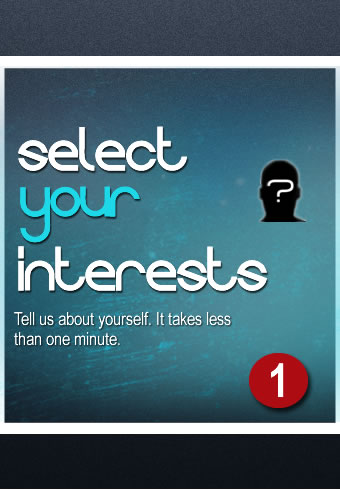
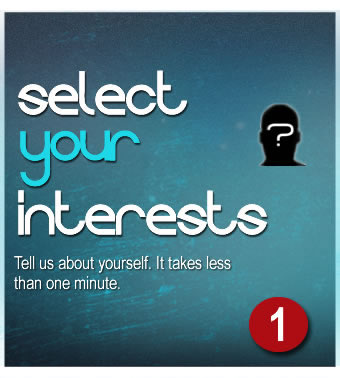
put slider back in

diff --git a/Solutions/CliqFlip.Web.Mvc/Content/styles/skins/default-dark.css b/Solutions/CliqFlip.Web.Mvc/Content/styles/skins/default-dark.css
@@ -809,7 +809,7 @@ ol li, .list li { color:#888; line-height:1.5em; }
 /*========================*/
 /*===  8.10. Slider    ===*/
 /*========================*/
-.bg_slider 	{margin:0; padding:0; padding-top:66px; width:100%; border-bottom:5px solid #FFA200;  -webkit-box-shadow: 0px 0px 20px #000; -moz-box-shadow: 0px 0px 20px #000; box-shadow: 0px 0px 20px #000; }	
+.bg_slider 	{margin-top:25px; padding:0; padding-top:66px; width:100%; border-bottom:5px solid #FFA200;  -webkit-box-shadow: 0px 0px 20px #000; -moz-box-shadow: 0px 0px 20px #000; box-shadow: 0px 0px 20px #000; }	
 
 /*===============================*/
 /*===  8.10.1 VIDEO HEADER ===*/
@@ -921,7 +921,10 @@ ol li, .list li { color:#888; line-height:1.5em; }
 /*===  8.10.3 Cycle Slider ( homepage ) ===*/
 /*==========================================*/
 .cycle_wrapper { position: relative;}
-#slider-container .cycleslider { display: block; position: relative; width: 340px; height: 480px; overflow:hidden;float: left;}
+#slider-container .cycleslider {
+	 display: block;margin-left: 38px; position: relative; width: 340px; height: 378px; overflow:hidden;float: left;
+}
+
 #slider-container #register-button 
 {
 	height: 136px;
@@ -931,7 +934,8 @@ ol li, .list li { color:#888; line-height:1.5em; }
 	cursor: pointer;
 	position: absolute;
 	z-index: 999;
-	left: 264px;
+	left: 303px;
+	top: -49px;
 }
 
 #slider-container #register-button span
@@ -949,11 +953,11 @@ ol li, .list li { color:#888; line-height:1.5em; }
 
 #slider-container .cycleslider_directions { /*position:absolute; top:0; left:0; */position:relative;}
 #slider-container .cycleslider_control_nav { position:absolute; top:0; left:0; }
-#slider-container .cycleslider_previous_control { float:left; position:absolute; left:-55px; top:185px }
+#slider-container .cycleslider_previous_control { float:left; position:absolute; left:-12px; top:185px }
 #slider-container .cycleslider_previous_control a { background: transparent url(../../img/anythingSlider/slider-arrows2.png) no-repeat 0 -48px;
 	width:48px;	height:48px; display:block;	text-indent:-999999px; -webkit-transition: all .2s linear;-moz-transition: all .2s linear;transition: all .2s linear; }
 #slider-container .cycleslider_previous_control a:hover { background: transparent url(../../img/anythingSlider/slider-arrows2.png) no-repeat 0 0px; }
-#slider-container .cycleslider_next_control 		{ float:left; position:absolute; right:548px; top:185px; }
+#slider-container .cycleslider_next_control 		{ float:left; position:absolute; right:511px; top:185px; }
 #slider-container .cycleslider_next_control  a 		{	background: transparent url(../../img/anythingSlider/slider-arrows2.png) no-repeat -48px -48px; width:48px;	height:48px; display:block;	text-indent:-999999px; -webkit-transition: all .2s linear;-moz-transition: all .2s linear;transition: all .2s linear; }
 #slider-container .cycleslider_next_control  a:hover { background: transparent url(../../img/anythingSlider/slider-arrows2.png) no-repeat -48px 0px; }
 /*==========================================*/
@@ -1025,7 +1029,9 @@ filter: progid:DXImageTransform.Microsoft.gradient( startColorstr='#ffa200', end
 /*========================*/
 /*===  9. Tryout
 /*========================*/
-.tryout {width: 505px; height: 480px;margin: 0 auto;padding-top: 25px;}
+.tryout {
+	width: 458px; height: 480px;margin-left: 92px;padding-top: 25px;float: left;
+}
 	.tryout_top {
 		background-color: #C1EEF7;
          border-radius: 12px;
